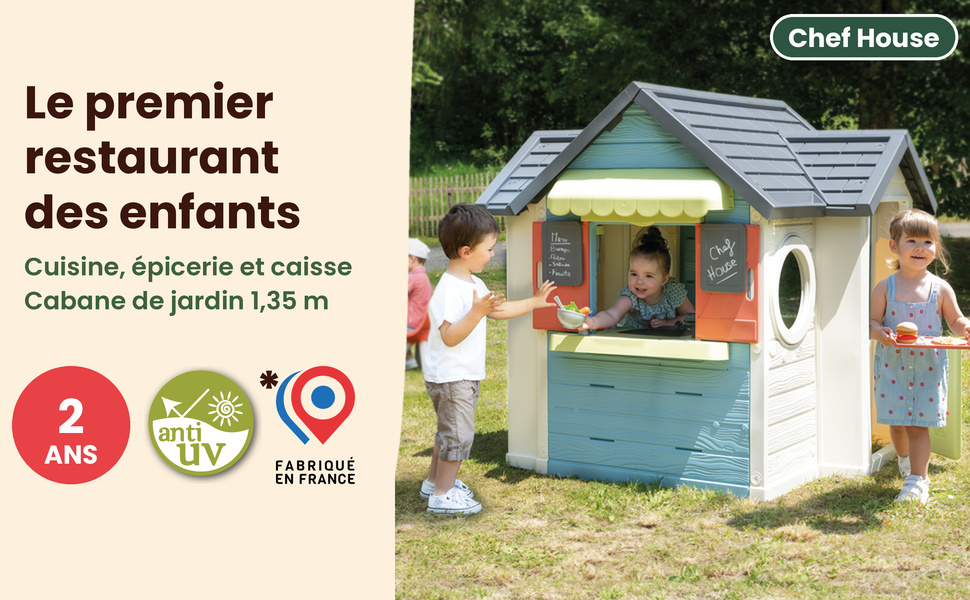
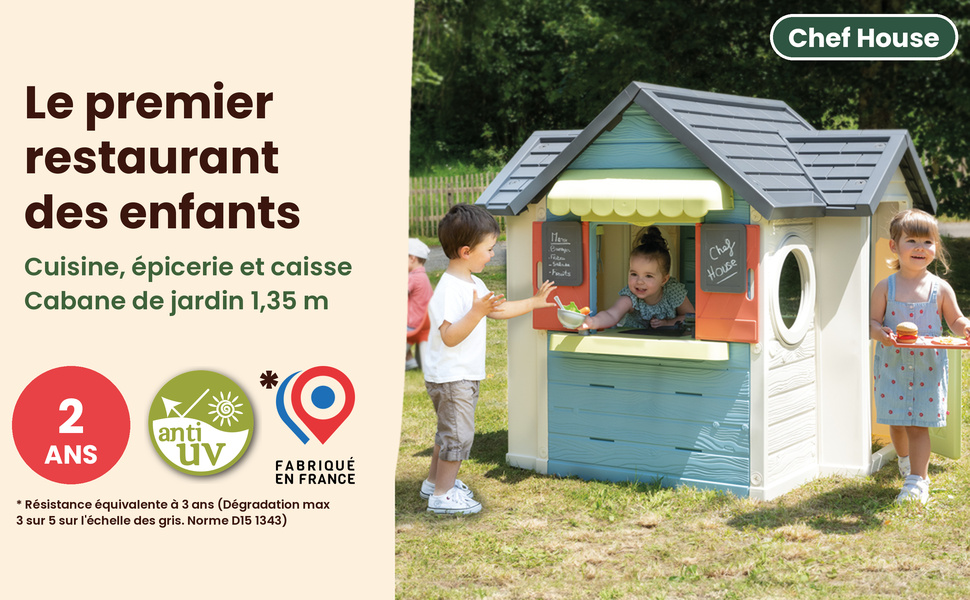
hero_life : note anti-UV systématique ; hero Chef House
Claude-Session: https://claude.ai/code/session_01D96YY79y5i5VtDJEc8ZKvV

Changed region(s): [[0.0, 0.81, 0.3402, 0.9]]

diff --git a/tools/hero_life.py b/tools/hero_life.py
@@ -60,8 +60,17 @@ def main(sp_path):
         for ln in lines:
             bb = d.textbbox((0, 0), ln, font=fe); d.text((bx + (D - bb[2] + bb[0]) / 2 - bb[0], yy), ln, font=fe, fill=GREEN); yy += int(D * 0.24)
         bx += D + 14 * SS
+    if sp.get('anti_uv'):  # note anti-UV, toujours la même mention (demande Nathan 05/11/2026)
+        note = '* ' + sp.get('uv_note', "Résistance équivalente à 3 ans (Dégradation max 3 sur 5 sur l'échelle des gris. Norme D15 1343)")
+        fn = F(12 * SS, 600); words = note.split(); lines, cur = [], ''
+        for w_ in words:
+            t = (cur + ' ' + w_).strip()
+            if d.textlength(t, font=fn) > 320 * SS and cur: lines.append(cur); cur = w_
+            else: cur = t
+        lines.append(cur); yy = by + D + 12 * SS
+        for ln in lines: d.text((16 * SS, yy), ln, font=fn, fill=BROWN); yy += 16 * SS
     if sp.get('fab'):
-        fb = Image.open(os.path.join(LOGOS, 'fab_bloc_rvb.png')).convert('RGBA'); fb = fb.crop(fb.getbbox())
+        fb =Image.open(os.path.join(LOGOS, 'fab_bloc_rvb.png')).convert('RGBA'); fb = fb.crop(fb.getbbox())
         fh = int(D * 1.0); fb = fb.resize((round(fb.width * fh / fb.height), fh), Image.LANCZOS); big.alpha_composite(fb, (bx, by + int(D * 0.0)))
     # étiquette produit en haut à droite
     pf = F(26 * SS, 700); bb = d.textbbox((0, 0), sp['pill'], font=pf); pw = bb[2] - bb[0] + 36 * SS; ph_ = 46 * SS
